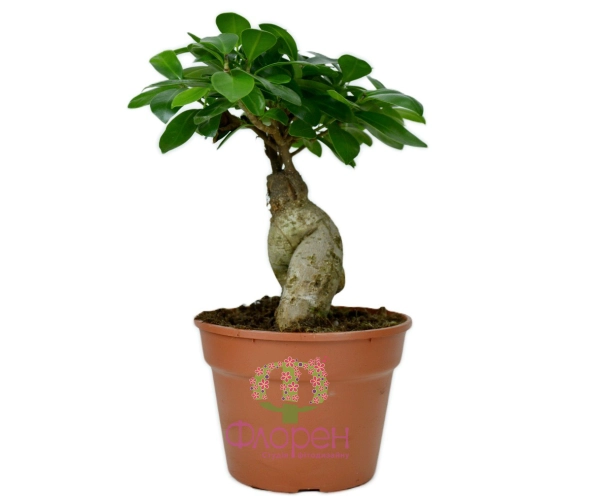
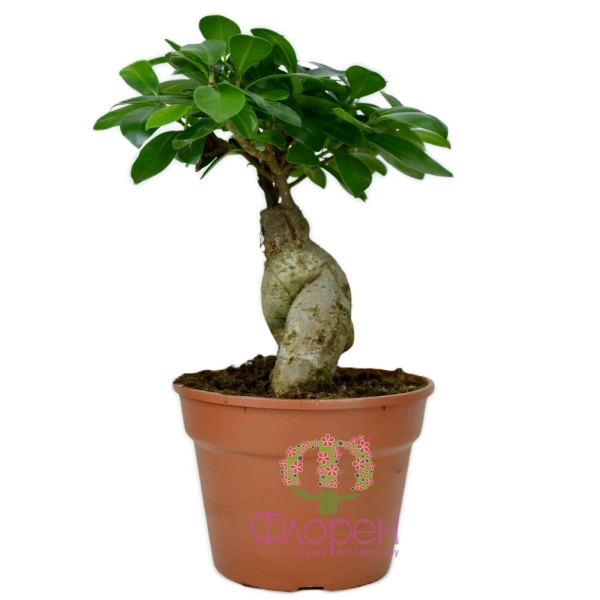
Main SEO text
- Add to php
-- plants
-- goods
-- good
Regular expression to change plain HTLM to styled HTML

Changed region(s): [[0.15, 0.0, 0.75, 0.99]]

diff --git a/templates/__to_discuss.html b/templates/__to_discuss.html
@@ -40,6 +40,34 @@
           – когда заменил <label> на <a> – поломались стили см. скрин 1,2,3
           – Ціни у інших товарах 
           
+          
+          
+          ========
+Димон.
+Необходимо унифицировать верстку Главного текстов
+1. страница Комнатные растения
+2. страница Комнатные растения -> Рубрика
+3. Страница товара.
+
+У тебя сейчас h3 и h4
+
+А у нас есть h2, h3, h4
+
+У тебя в первом варианте 
+
+<section class="article-section">
+              <h3 class="article-section__title">Кімнатні рослини для затишку та гармонії</h3>
+              <div class="article-section__content">
+
+а в 2м и 3м
+Без классов.
+
+если это необходимо – ок, я так и сделаю. Но мне кажеться надо сделать одинаково.
+
+И второй – с отступами на всех H-ках надо поиграться.
+          
+          ========
+          
         
        ========== 
         – Кнопка знижка на товаре

diff --git a/exec/good.php b/exec/good.php
@@ -520,7 +520,7 @@ $smarty->assign("CUR_GFSID", $curFID);
 				}else{
 					$src= 'https://floren.com.ua/images/ins/b/gmcxml-' . $active_formIDArray['img'];
 					$dest_m		=	$_SERVER['DOCUMENT_ROOT'] . '/images/goods/m/' .str_replace('jpg', 'webp', $active_formIDArray['img']);
-					img_resize($src, $dest_m, 600, 500, $rgb=0xFFFFFF, $quality=100, $keep_origin_size=false, $trim=false, $resize_max=false, $apply_mask=true);
+					img_resize($src, $dest_m, 600, 600, $rgb=0xFFFFFF, $quality=100, $keep_origin_size=false, $trim=false, $resize_max=false, $apply_mask=true);
 					$main_image	=	$img_path . str_replace('jpg', 'webp', $active_formIDArray['img']);
 				}
 		}else{
@@ -531,7 +531,7 @@ $smarty->assign("CUR_GFSID", $curFID);
 				}else{
 					$src= 'https://floren.com.ua/images/ins/b/gmcxml-' . $gof[0]['img'];
 					$dest_m		=	$_SERVER['DOCUMENT_ROOT'] . '/images/goods/m/' .str_replace('jpg', 'webp', $gof[0]['img']);
-					img_resize($src, $dest_m, 600, 500, $rgb=0xFFFFFF, $quality=100, $keep_origin_size=false, $trim=false, $resize_max=false, $apply_mask=true);
+					img_resize($src, $dest_m, 600, 600, $rgb=0xFFFFFF, $quality=100, $keep_origin_size=false, $trim=false, $resize_max=false, $apply_mask=true);
 					$main_image	=	$img_path . str_replace('jpg', 'webp', $gof[0]['img']);
 				}
 			} elseif ($gof[0]['color']) {
@@ -541,7 +541,7 @@ $smarty->assign("CUR_GFSID", $curFID);
 				}else{
 					$src= 'https://floren.com.ua/images/ins/b/gmcxml-' . ($good[$gID]['link'] . '_' . $gof[0]['color'] . '.jpg');
 					$dest_m		=	$_SERVER['DOCUMENT_ROOT'] . '/images/goods/m/' .str_replace('jpg', 'webp', ($good[$gID]['link'] . '_' . $gof[0]['color'] . '.jpg'));
-					img_resize($src, $dest_m, 600, 500, $rgb=0xFFFFFF, $quality=100, $keep_origin_size=false, $trim=false, $resize_max=false, $apply_mask=true);
+					img_resize($src, $dest_m, 600, 600, $rgb=0xFFFFFF, $quality=100, $keep_origin_size=false, $trim=false, $resize_max=false, $apply_mask=true);
 					$main_image	=	$img_path . str_replace('jpg', 'webp', ($good[$gID]['link'] . '_' . $gof[0]['color'] . '.jpg'));
 				}
 			} else {
@@ -551,7 +551,7 @@ $smarty->assign("CUR_GFSID", $curFID);
 				}else{
 					$src= 'https://floren.com.ua/images/ins/b/gmcxml-' . $good[$gID]['image'];
 					$dest_m		=	$_SERVER['DOCUMENT_ROOT'] . '/images/goods/m/' .str_replace('jpg', 'webp', $good[$gID]['image']);
-					img_resize($src, $dest_m, 600, 500, $rgb=0xFFFFFF, $quality=100, $keep_origin_size=false, $trim=false, $resize_max=false, $apply_mask=true);
+					img_resize($src, $dest_m, 600, 600, $rgb=0xFFFFFF, $quality=100, $keep_origin_size=false, $trim=false, $resize_max=false, $apply_mask=true);
 					$main_image	=	$img_path . str_replace('jpg', 'webp', $good[$gID]['image']);
 				}
 			}
@@ -813,6 +813,13 @@ $smarty->assign("CUR_GFSID", $curFID);
 			$og_link	.=	$active_formID."/";
 		}
 		$og_title = str_replace('"','&quot;', str_replace("'", "&#700;", strip_tags($goodH1)));
+		
+		
+		
+		$body_text=$good[$gID]['body'];
+		$new_body_text=preg_replace('/(<h2\b[^>]*>.*?<\/h2>)/is', '</div></section><section class="article-section">$1<div class="article-section__content">', $body_text);
+		$new_body_text=preg_replace('/(<table\b[^>]*>.*?<\/table>)/i', '<div class="article-section__table">$1</div>', $new_body_text);
+		$smarty->assign("GOOD_ONE_BODY", $new_body_text.'</div>');
 		
 		$smarty->assign("GOOD_ONE",$good[$gID]);
 		$smarty->assign("GOOD_H1", $goodH1);

diff --git a/exec/goods.php b/exec/goods.php
@@ -320,8 +320,12 @@ if(count($filters_url)){
 $smarty->assign("PAGE_TITLE", $page_title);
 $smarty->assign("PAGE_SUB",	$page_sub);
 $smarty->assign("SEO_TEXT",	$leftSEOtext);
-$smarty->assign("CENTER_SEO_TEXT",	$centerSEOtext);
 $smarty->assign("TOP_SEO_TEXT",	$topSEOtext);
+
+$body_text=$centerSEOtext;
+$new_body_text=preg_replace('/(<h2\b[^>]*>.*?<\/h2>)/is', '</div></section><section class="article-section">$1<div class="article-section__content">', $body_text);
+//$new_body_text=preg_replace('/(<h[2]\b[^>]*>)/i', '</section><section>$1', $new_body_text);
+$smarty->assign("CENTER_SEO_TEXT",$new_body_text);
 
 $TITLE[1]=$meta_title;
 $smarty->assign("META_DESCRIPTION",		$meta_description);
@@ -435,7 +439,7 @@ $smarty->assign("META_KEYWORDS",		$meta_keywords);
 						
 											
 						img_resize($src, $dest_s, 200, 200, $rgb=0xFFFFFF, $quality=100, $keep_origin_size=false, $trim=false, $resize_max=false, $apply_mask=false);
-					//	img_resize($src, $dest_m, 600, 500, $rgb=0xFFFFFF, $quality=100, $keep_origin_size=false, $trim=false, $resize_max=false, $apply_mask=true);
+					//	img_resize($src, $dest_m, 600, 600, $rgb=0xFFFFFF, $quality=100, $keep_origin_size=false, $trim=false, $resize_max=false, $apply_mask=true);
 					//	img_resize($src, $dest_b, 1600, 1200, $rgb=0xFFFFFF, $quality=100, $keep_origin_size=true, $trim=false, $resize_max=true, $apply_mask=true);
 					//	img_resize($src, $dest_gmcxml, 1600, 1200, $rgb=0xFFFFFF, $quality=90, $keep_origin_size=true, $trim=false, $resize_max=true, $apply_mask=false);
 					$img_path = '/images/goods/s/' . str_replace('jpg', 'webp', $rs_goods['image']);

diff --git a/exec/plants.php b/exec/plants.php
@@ -523,7 +523,7 @@ if ((isset($URL[1]) && in_array($URL[1], $category_aliases))) {
 					
 										
 					img_resize($src, $dest_s, 200, 200, $rgb=0xFFFFFF, $quality=100, $keep_origin_size=false, $trim=false, $resize_max=false, $apply_mask=false);
-				//	img_resize($src, $dest_m, 600, 500, $rgb=0xFFFFFF, $quality=100, $keep_origin_size=false, $trim=false, $resize_max=false, $apply_mask=true);
+				//	img_resize($src, $dest_m, 600, 600, $rgb=0xFFFFFF, $quality=100, $keep_origin_size=false, $trim=false, $resize_max=false, $apply_mask=true);
 				//	img_resize($src, $dest_b, 1600, 1200, $rgb=0xFFFFFF, $quality=100, $keep_origin_size=true, $trim=false, $resize_max=true, $apply_mask=true);
 				//	img_resize($src, $dest_gmcxml, 1600, 1200, $rgb=0xFFFFFF, $quality=90, $keep_origin_size=true, $trim=false, $resize_max=true, $apply_mask=false);
 					
@@ -661,8 +661,13 @@ $schema_prices_min=array();
 		$smarty->assign("PAGE_TITLE",$page_title);
 		$smarty->assign("TOP_SEO_TEXT",$topSEOtext);
 		$smarty->assign("SEO_TEXT",$leftSEOtext);
-		$smarty->assign("CENTER_SEO_TEXT",$centerSEOtext);
 		$smarty->assign("LIST_OR_TBL",$f_cat['list_or_tbl']);
+		
+		$body_text=$centerSEOtext;
+		$new_body_text=preg_replace('/(<h2\b[^>]*>.*?<\/h2>)/is', '</div></section><section class="article-section">$1<div class="article-section__content">', $body_text);
+		$new_body_text=preg_replace('/(<table\b[^>]*>.*?<\/table>)/is', '<div class="article-section__table">$1</div>', $new_body_text);
+		$smarty->assign("CENTER_SEO_TEXT", $new_body_text.'</div>');
+		
 		
 		$smarty->assign("CATEGORY_M_ID",$f_cat['ID']);
 
